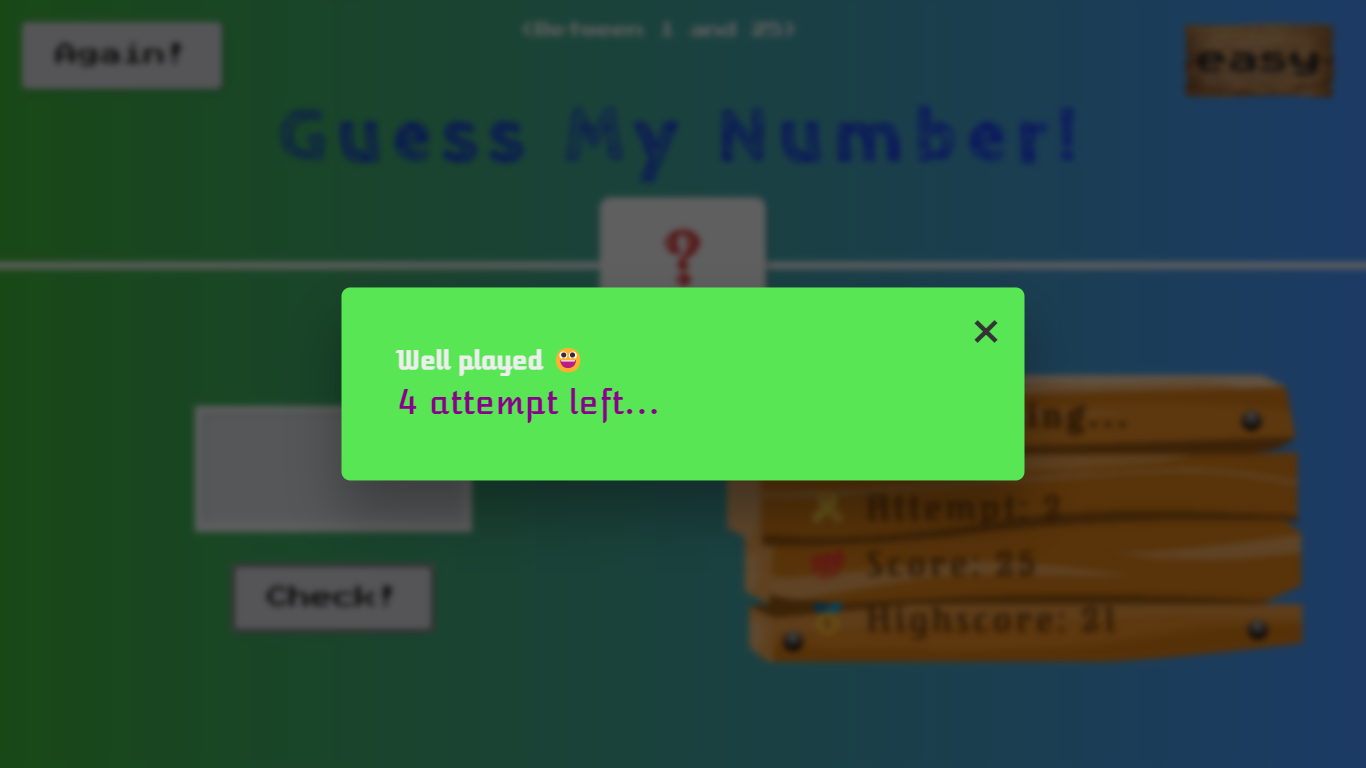
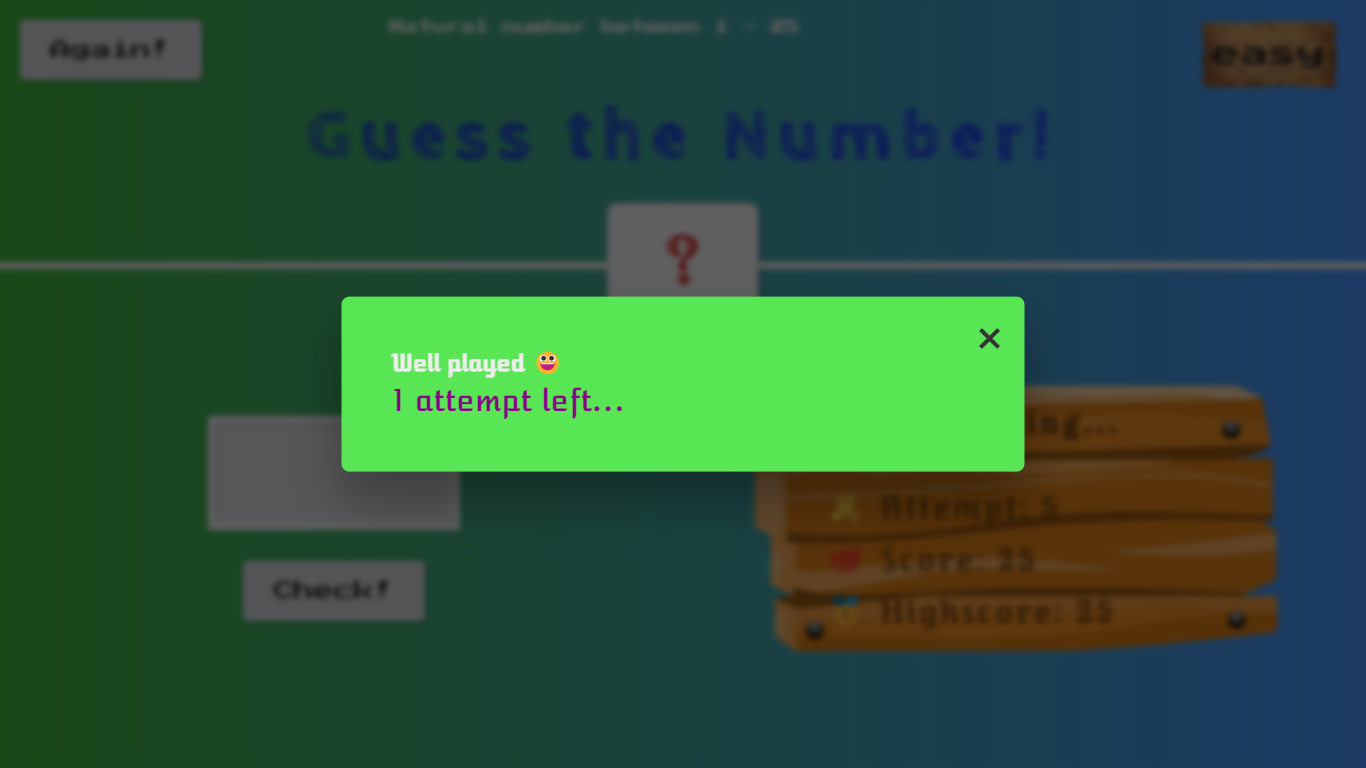
added some features based on user feedback

diff --git a/js/script.js b/js/script.js
@@ -2,12 +2,15 @@
 
 //Variable declaration
 let score = 25;
-let multiplier = 1;
-let secretNumber = selectNumber(multiplier);
 let highScore = 0;
 let avgSum = 1;
 let attemptCount = 1;
 let currentLevel = "easy";
+let secretNumber = selectNumber();
+let primeNumbers = [
+  2, 3, 5, 7, 11, 13, 17, 19, 23, 29, 31, 37, 41, 43, 47, 53, 59, 61, 67, 71,
+  73, 79, 83, 89, 97,
+];
 
 //Selectors
 const body = document.querySelector("body");
@@ -40,12 +43,21 @@ function closeModal() {
 }
 
 function rangeOfNumbers() {
-  betweenText.innerText = `(Between 1 and ${multiplier * 25})`;
+  if (currentLevel === "hard")
+    betweenText.innerText = `Prime number between 1 - 100`;
+  else if (currentLevel === "medium")
+    betweenText.innerText = `Even number between 1 - 50`;
+  else betweenText.innerText = `Natural number between 1 - 25`;
 }
 //Generate the secret number🤫
-function selectNumber(multiplier) {
-  return 10;
-  return Math.trunc(Math.random() * multiplier * 25) + 1;
+function selectNumber() {
+  if (currentLevel === "hard")
+    return primeNumbers[Math.trunc(Math.random() * 25)];
+  else if (currentLevel === "medium") {
+    const num = Math.trunc(Math.random() * 50) + 1;
+    return num + (num % 2);
+  }
+  return Math.trunc(Math.random() * 25) + 1;
 }
 
 function calcAttempt() {
@@ -53,16 +65,14 @@ function calcAttempt() {
   attemptCount++;
   if (attemptCount > 5) {
     if (currentLevel === "hard") {
-      openModal("you have already masterd this Game, Let's play again!!");
+      openModal("you have already masterd this Game, Let's play again😀!!");
       currentLevel = "easy";
-    } else if (currentLevel === "easy" && avgSum / 5 > 15) {
+    } else if (currentLevel === "easy" && avgSum / 5 > 10) {
       currentLevel = "medium";
-      multiplier = 2;
-      openModal("Your level upgraded to MEDIUM!");
-    } else if (currentLevel === "medium" && avgSum / 5 > 20) {
+      openModal("Your level upgraded to MEDIUM🥳!");
+    } else if (currentLevel === "medium" && avgSum / 5 > 15) {
       currentLevel = "hard";
-      multiplier = 4;
-      openModal("Your level upgraded to HARD!!");
+      openModal("Your level upgraded to HARD🥳🥳!!");
     } else openModal("Let's give one more try!!");
     restartGame();
   } else {
@@ -108,7 +118,8 @@ function restartGame(isPartial = false) {
   attemptCount = isPartial === true ? attemptCount : 1;
   avgSum = isPartial === true ? avgSum : 0;
   highScore = isPartial === true ? highScore : 0;
-  secretNumber = selectNumber(multiplier);
+  secretNumber = selectNumber();
+  console.log(`${secretNumber} - 🤫😜`);
   rangeOfNumbers();
 
   displayMessage("Start guessing...");

diff --git a/css/style.css b/css/style.css
@@ -15,7 +15,7 @@ html {
 }
 
 body {
-  font-family:  'Nova Square','Press Start 2P', sans-serif;
+  font-family:  'Press Start 2P', sans-serif;
   color: #eee;
   background: linear-gradient(90deg, rgba(62,180,58,1) 0%, rgba(69,146,252,1) 100%);
 }

diff --git a/README.md b/README.md
@@ -5,7 +5,10 @@
 ## Project Description 📑
 
 - This is a simple number guessing game that I created as my e-Litmus Internship task.
-- We need to guess a number in a range _**1-N(N depends on level)**_.
+- We need to guess a number in a given range.
+- In EASY level the secret number will be a **NATURAL** number between 1 - 25.
+- In MEDIUM level the secret number will be an **EVEN** number between 1 - 50.
+- In HARD level the secret number will be a **PRIME** number between 1 - 100.
 - We have the _**25**_ chances to guess the correct number.
 - We'll win on guessing the correct number within given chances else we lose.
 - If we score higher than before then it'll become high score(HighScore will reset tio zero on each level).
@@ -62,9 +65,9 @@ Start the server
 Contributions are what make the open source community such an amazing place to be learn, inspire, and create. Any contributions you make are greatly appreciated.
 
 1. Fork the Project
-2. Create your Feature Branch (`git checkout -b issue101`)
-3. Commit your Changes (`git commit -m 'fixed some issues`)
-4. Push to the Branch (`git push origin issue101`)
+2. Create your Feature Branch (`git checkout -b issue101/features`)
+3. Commit your Changes (`git commit -m 'fixed some issues/added some features`)
+4. Push to the Branch (`git push origin issue101/featues101`)
 5. Open a Pull Request
 
 ## Reference 🙏
